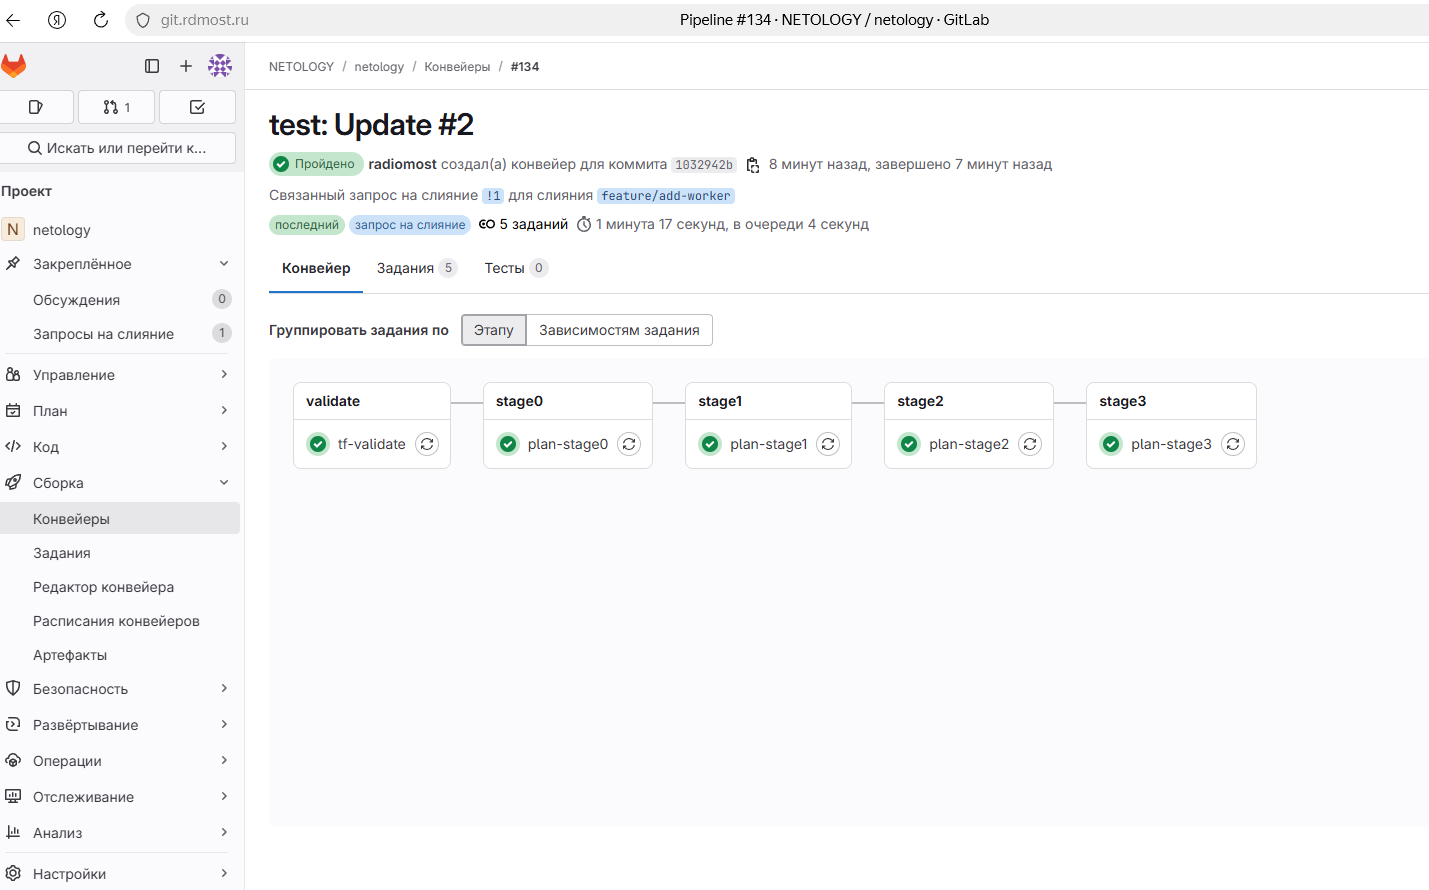
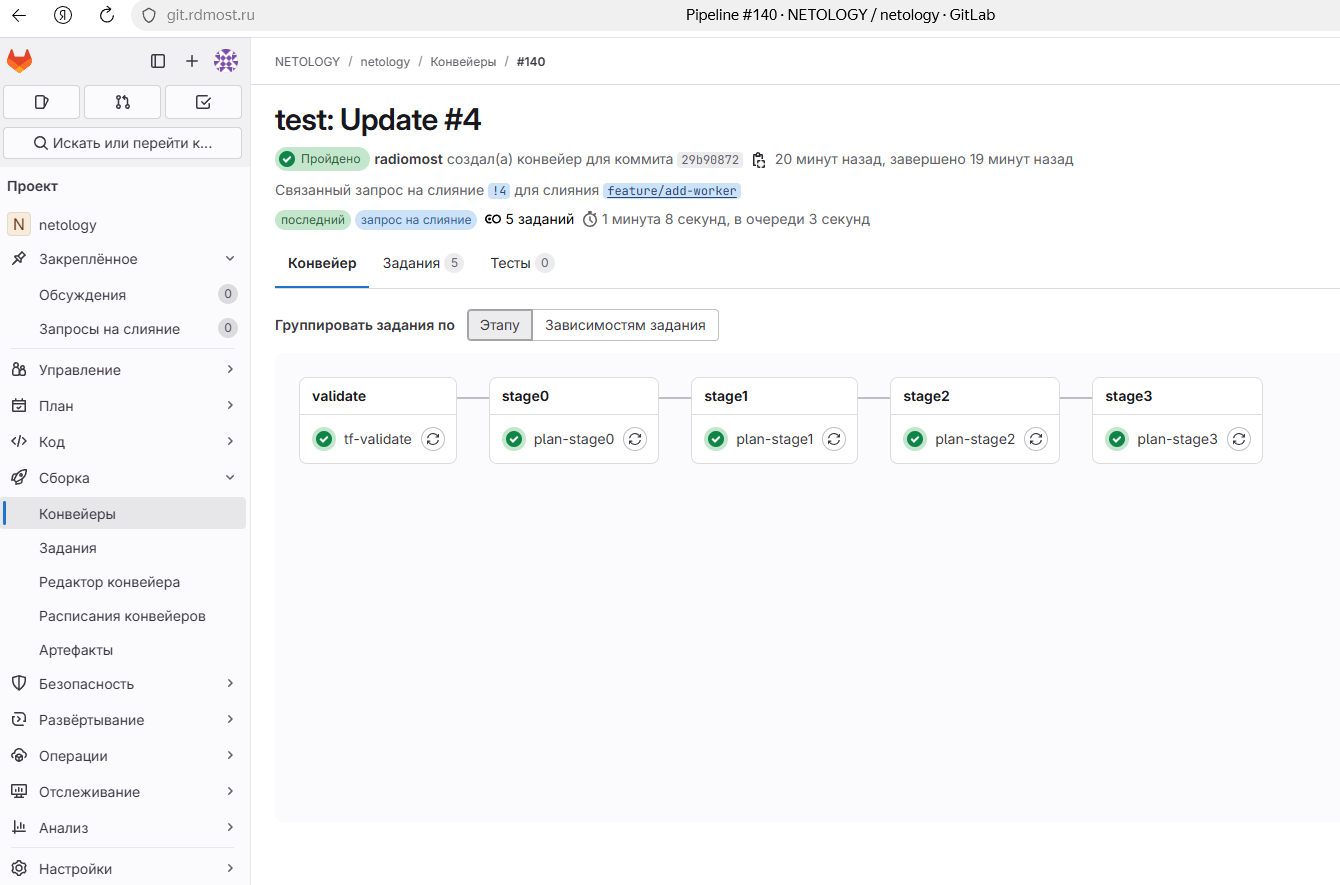
test: Update #5

diff --git a/README.md b/README.md
@@ -572,8 +572,14 @@ kubectl create secret docker-registry ycr-secret \
 !['img_15.png'](img/img_15.png)
 
 
-# Запрос на MR в ветку dev-
+# Запрос на MR в ветку diplom-dev
 
 !['img_16.png'](img/img_16.png)
 
 !['img_17.png'](img/img_17.png)
+
+!['img_18.png'](img/img_18.png)
+
+# PR tf plan
+
+!['img_19.png'](img/img_19.png)
